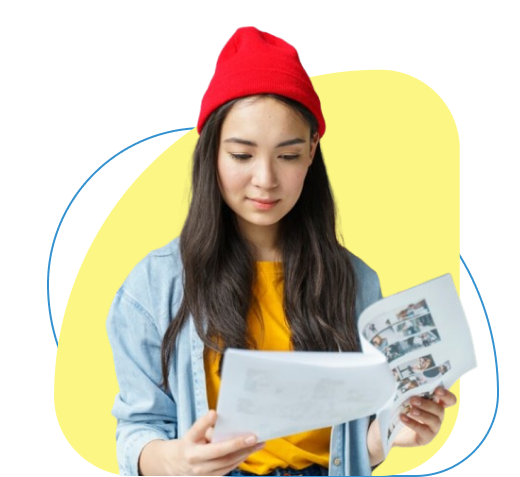
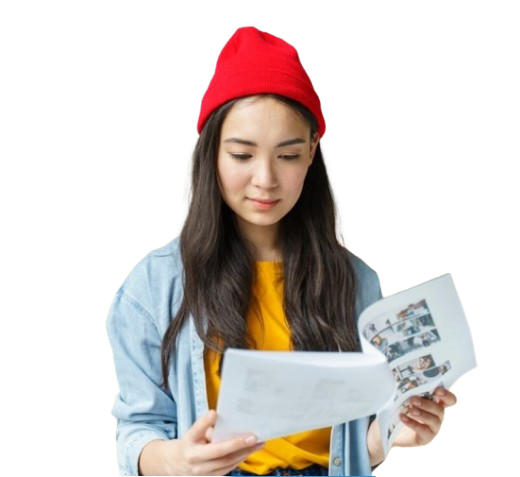
fsd

diff --git a/src/acceuil.js b/src/acceuil.js
@@ -32,6 +32,9 @@ const Acceuil = () => {
     <div className="container mt-5">
       <div className="row">
             <div className="col-lg-5 col-md-12">
+            <svg viewBox="0 0 200 200" className="blobacceuil" xmlns="http://www.w3.org/2000/svg">
+  <path fill="#FCF684" d="M47.6,-61.7C54.7,-50.8,48.7,-29.1,50.9,-10C53,10.2,63.3,60.8,60.3,60.5C60.7,61.2,0.9,60.9,0.9,60.6C5.9,60.4,-0.3,60.1,-2.3,50.5C-5.2,50.9,60,60.9,-80.8,60.1C-37.6,13.3,-35.5,3.7,-34.7,-7C-33.8,-17.7,-34.3,-29.5,-28.7,-40.7C-23.1,-51.9,-11.6,-62.5,4.3,-67.7C20.2,-72.8,40.5,-72.6,47.6,-61.7Z" transform="translate(100 100)" />
+</svg>
               <img className="img-fluid image1" src={image1} alt="" />
             </div>
             <div className="col-lg-7  col-md-12">

diff --git a/src/acceuil.css b/src/acceuil.css
@@ -85,7 +85,10 @@
     color:#FFFFFF;
 }
 .image1{
-    max-width: 70%;
+    width: 25%;
+    position: absolute;
+    left: 12%;
+    z-index: 1;
 
 }
 .titre2{
@@ -167,3 +170,8 @@
     width: 40%;
     
 }
+.blobacceuil{
+    margin-left: 0;
+position: relative;
+width: 31.4vw;
+z-index: -1;}
